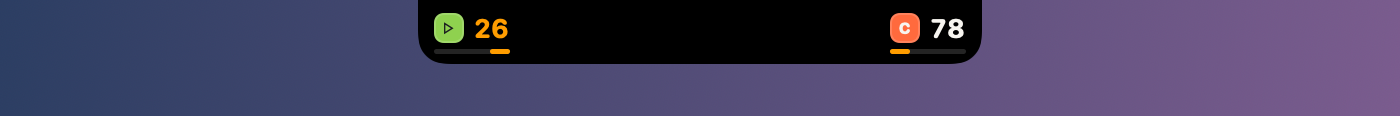
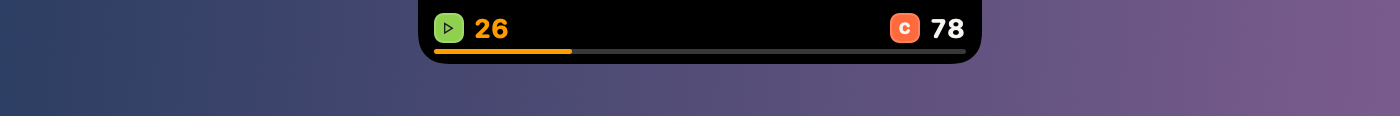
feat(ui): a barra do notch vira uma só, de ponta a ponta
Duas metades ancoradas no recorte obrigavam o olho a somar dois
comprimentos para estimar um número só — o trabalho que uma barra de
progresso existe para poupar. Agora é uma barra contínua, preenchida da
esquerda para a direita, passando por baixo do recorte.

O painel fechado chega partido em dois (as asas são views irmãs do
DynamicNotchKit), então a largura total vem de uma caixinha compartilhada
onde cada asa publica o próprio retângulo; a asa esquerda desenha a barra
inteira num overlay mais largo que ela, que a NotchShape do pacote apara.

O trilho subiu de 0.14 para 0.22 de branco: num traço de 2,5pt sobre preto
sólido, 0.14 some — e sem trilho não dá para ver o quanto falta.

Changed region(s): [[0.3071, 0.4138, 0.6757, 0.4655]]

diff --git a/Sources/OkTally/UI/Notch/NotchHUDView.swift b/Sources/OkTally/UI/Notch/NotchHUDView.swift
@@ -12,6 +12,10 @@ enum NotchPalette {
     static let ink = Theme.Brand.offWhite
     static let inkDim = Theme.Brand.offWhite.opacity(0.62)
     static let track = Color.white.opacity(0.14)
+    /// Trilho da barra da borda: mais forte que o das listas de propósito. Num traço de
+    /// 2,5pt sobre preto sólido, 0.14 de branco desaparece — e um trilho invisível
+    /// devolve o problema que a barra veio resolver.
+    static let ruleTrack = Color.white.opacity(0.22)
 }
 
 // MARK: - Fechado
@@ -32,10 +36,19 @@ struct NotchCompactLeading: View {
     /// conteúdo UMA vez, na criação do painel, então um valor passado por cópia
     /// congelaria no número do momento em que o app subiu.
     @ObservedObject var appModel: AppModel
+    @ObservedObject private var span = NotchBarSpan.shared
 
     var body: some View {
         NotchWing(segment: appModel.notchWings.leading, showsBrandFallback: true)
-            .notchBottomRule(appModel.notchBottomBar, growingToward: .leading)
+            .measuringNotchSpan(\.leading)
+            // A asa esquerda é quem desenha a barra INTEIRA — ver `NotchBottomRule`.
+            .overlay(alignment: .bottomLeading) {
+                NotchBottomRule(bar: appModel.notchBottomBar, totalWidth: span.width)
+                    // Alinhada pelo fundo do chip e EMPURRADA para dentro do respiro que
+                    // o pacote reserva embaixo — sem o deslocamento a barra sublinharia o
+                    // chip, no meio do painel, em vez de correr pela borda de baixo dele.
+                    .offset(y: NotchBottomRule.reservedBottomInset - NotchBottomRule.bottomGap)
+            }
     }
 }
 
@@ -44,42 +57,74 @@ struct NotchCompactTrailing: View {
 
     var body: some View {
         NotchWing(segment: appModel.notchWings.trailing, showsBrandFallback: false)
-            .notchBottomRule(appModel.notchBottomBar, growingToward: .trailing)
+            // Não desenha barra nenhuma: só informa onde o painel TERMINA.
+            .measuringNotchSpan(\.trailing)
     }
 }
 
 // MARK: - Barra inferior
 
+/// Onde a barra contínua começa e onde ela termina, em coordenadas da janela.
+///
+/// O painel fechado chega até nós PARTIDO EM DOIS: `DynamicNotchKit` desenha a asa
+/// esquerda e a direita como views irmãs, com o recorte entre elas, e nenhuma das duas
+/// sabe onde a outra acaba. Uma barra de ponta a ponta precisa exatamente dessa medida —
+/// daí esta caixinha compartilhada, onde cada asa publica o próprio retângulo. Um objeto
+/// único (e não um valor injetado) porque existe UM painel de notch no app inteiro, e
+/// porque as duas asas são criadas por closures independentes do controller: não há
+/// ancestral nosso onde uma `PreferenceKey` pudesse se encontrar.
+@MainActor
+final class NotchBarSpan: ObservableObject {
+    static let shared = NotchBarSpan()
+
+    @Published var leading: CGRect = .zero
+    @Published var trailing: CGRect = .zero
+
+    /// Da ponta esquerda do painel até a direita. Zero enquanto ninguém mediu — e aí a
+    /// barra simplesmente não é desenhada, em vez de aparecer com um comprimento chutado.
+    var width: CGFloat { max(0, trailing.maxX - leading.minX) }
+}
+
+private extension View {
+    /// Publica o retângulo desta asa na caixinha compartilhada, sem mexer no layout.
+    func measuringNotchSpan(_ key: ReferenceWritableKeyPath<NotchBarSpan, CGRect>) -> some View {
+        onGeometryChange(for: CGRect.self) { $0.frame(in: .global) } action: { rect in
+            NotchBarSpan.shared[keyPath: key] = rect
+        }
+    }
+}
+
 /// A barra fina da borda inferior do notch fechado — um traço de 2,5pt com o quanto RESTA
 /// da cota escolhida (`notchBottomSlot`; em automático, a mais apertada).
 ///
-/// ## Por que ela é desenhada em duas metades
+/// ## Uma barra só, de ponta a ponta
 ///
-/// A região central do painel fechado é o recorte físico: ali não existe pixel nenhum,
-/// e nada desenhado no meio apareceria. Os únicos lugares com tela são as duas asas. A
-/// barra é, portanto, uma linha só que o recorte INTERROMPE — e as duas metades precisam
-/// ler como uma coisa, não como dois medidores diferentes.
+/// A primeira versão eram duas metades ancoradas no recorte, crescendo para fora. O dono
+/// olhou e recusou: "eu queria uma barra contínua que fosse de um lado pro outro pra eu
+/// ter noção do gasto, não uma pequena de cada lado". Ele tem razão — duas metades
+/// espelhadas obrigam o olho a somar dois comprimentos para estimar um número só, que é
+/// exatamente o trabalho que uma barra de progresso existe para poupar.
 ///
-/// O que faz isso funcionar é a âncora: as duas metades crescem A PARTIR do recorte para
-/// fora, com o mesmo valor. Cheia, o traço acompanha toda a borda inferior das duas asas;
-/// esvaziando, ele recua simetricamente na direção do recorte. Simetria é o que o olho
-/// usa para decidir que são um elemento só.
+/// Então é UMA barra, preenchida da esquerda para a direita como qualquer barra de
+/// progresso, correndo por baixo do recorte. Ela é desenhada inteira pela asa ESQUERDA,
+/// num `overlay` mais largo que a própria asa: overlay não é recortado pelos limites de
+/// quem o hospeda, e o painel inteiro já é mascarado pela `NotchShape` do pacote — o que
+/// passar da borda é aparado por ela, não por nós.
 ///
-/// Cheia = FOLGA, igual a `QuotaCapsuleBar` e a todo o resto do app. Espelhar a âncora
-/// não inverte essa leitura — só troca de que lado o preenchimento começa.
+/// Cheia = FOLGA, igual a `QuotaCapsuleBar` e a todo o resto do app: a barra esvazia
+/// conforme o uso é consumido, que é o "quanto falta pra acabar" que foi pedido.
 ///
 /// Cor pela escala de perigo (`QuotaPresentation.color(remaining:)`) e não pela
-/// identidade do provedor: num traço de 2,5pt a cor não consegue fazer as duas coisas, e
-/// quem é o provedor já está dito pelo chip logo acima, com muito mais clareza do que uma
-/// linha de dois pixels conseguiria. O que só a barra pode dizer é "está apertando".
+/// identidade do provedor: ela ACOMPANHA o valor caindo — ciano com folga, Heat Orange
+/// apertando, Neon Magenta no crítico. Num traço de 2,5pt a cor não consegue fazer as
+/// duas coisas, e quem é o provedor já está dito pelo chip logo acima.
 ///
 /// No estado EXPANDIDO ela não existe: o `DynamicNotchKit` só desenha as asas em
-/// `.compact`, e o painel aberto já traz uma `QuotaCapsuleBar` própria por linha — repetir
-/// o mesmo número num traço no rodapé seria ruído.
+/// `.compact`, e o painel aberto já traz uma `QuotaCapsuleBar` própria por linha.
 struct NotchBottomRule: View {
     let bar: NotchBottomBar?
-    /// Para que lado esta metade cresce (o lado OPOSTO ao recorte).
-    let growingToward: HorizontalEdge
+    /// Largura do painel fechado inteiro, medida pelas duas asas (`NotchBarSpan`).
+    let totalWidth: CGFloat
 
     /// Traço, não layout: a espessura é a identidade visual do elemento, do mesmo jeito
     /// que a de um `Divider`. Abaixo de 2pt ela some no antialiasing da borda curva do
@@ -96,34 +141,18 @@ struct NotchBottomRule: View {
     static let bottomGap: CGFloat = 3
 
     var body: some View {
-        if let bar {
-            GeometryReader { geo in
-                ZStack(alignment: growingToward == .leading ? .trailing : .leading) {
-                    Capsule().fill(NotchPalette.track)
-                    Capsule()
-                        .fill(QuotaPresentation.color(remaining: bar.remaining))
-                        .frame(width: max(Self.thickness,
-                                          geo.size.width * Theme.clampFraction(bar.remaining)))
-                        .animation(.easeInOut(duration: 0.3), value: bar.remaining)
-                }
+        if let bar, totalWidth > 0 {
+            ZStack(alignment: .leading) {
+                // O trilho precisa ser VISÍVEL: sem ele não há proporção, e sem proporção
+                // não dá para ver o quanto falta — só o quanto sobrou em pixels soltos.
+                Capsule().fill(NotchPalette.ruleTrack)
+                Capsule()
+                    .fill(QuotaPresentation.color(remaining: bar.remaining))
+                    .frame(width: max(Self.thickness,
+                                      totalWidth * Theme.clampFraction(bar.remaining)))
+                    .animation(.easeInOut(duration: 0.3), value: bar.remaining)
             }
-            .frame(height: Self.thickness)
-        }
-    }
-}
-
-private extension View {
-    /// Pendura a metade da barra na borda inferior da asa, sem alterar a altura dela: a
-    /// asa continua medindo o que o chip mede, e o traço mora no respiro que o pacote já
-    /// reserva embaixo. Um `overlay` (e não um `VStack`) justamente para o texto do chip
-    /// não subir 2,5pt quando a barra aparece.
-    func notchBottomRule(_ bar: NotchBottomBar?, growingToward edge: HorizontalEdge) -> some View {
-        overlay(alignment: .bottom) {
-            NotchBottomRule(bar: bar, growingToward: edge)
-                // Alinhada pelo fundo do chip e EMPURRADA para dentro do respiro do
-                // pacote — sem o deslocamento a barra sublinharia o chip, no meio do
-                // painel, em vez de correr pela borda de baixo dele.
-                .offset(y: NotchBottomRule.reservedBottomInset - NotchBottomRule.bottomGap)
+            .frame(width: totalWidth, height: Self.thickness)
         }
     }
 }

diff --git a/Tests/OkTallyTests/ReadmeAssetRenderer.swift b/Tests/OkTallyTests/ReadmeAssetRenderer.swift
@@ -493,7 +493,8 @@ private enum NotchMetrics {
     }
 }
 
-/// Fechado: marca de um lado do recorte, tracinhos do outro.
+/// Fechado: uma cota de cada lado do recorte e a barra contínua correndo pela borda de
+/// baixo, de ponta a ponta (a asa esquerda desenha a barra inteira — ver `NotchBottomRule`).
 private struct NotchCollapsedMock: View {
     @ObservedObject var appModel: AppModel
 
